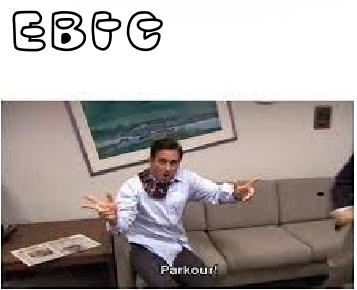
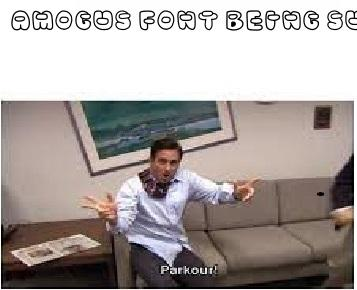
fixed +ping and made font smaller

Changed region(s): [[0.0308, 0.031, 1.0, 0.1862]]

diff --git a/main.py b/main.py
@@ -179,7 +179,7 @@ async def on_ready() :
 
 @client.command(help="Tells the ping of the bot in milliseconds. Run by +ping")
 async def ping(ctx) :
-    await ctx.send("Latency is: " + str(client.latency)*1000)
+    await ctx.send("Latency is: " + str(client.latency*1000))
 
 @client.command(help="Nu-uh")
 async def nick(ctx,strs) :
@@ -297,7 +297,7 @@ async def sm(ctx,i):
 async def meme(ctx,name_of_meme_template,name_of_1st_text):
     name1=name_of_meme_template
     
-    title_font = ImageFont.truetype('Fonts/One-Regular.ttf', 50)
+    title_font = ImageFont.truetype('Fonts/One-Regular.ttf', 25)
     if name1.lower()=="samething":
         name2=name_of_1st_text.split(",")[0]
         name3=name_of_1st_text.split(",")[1]
